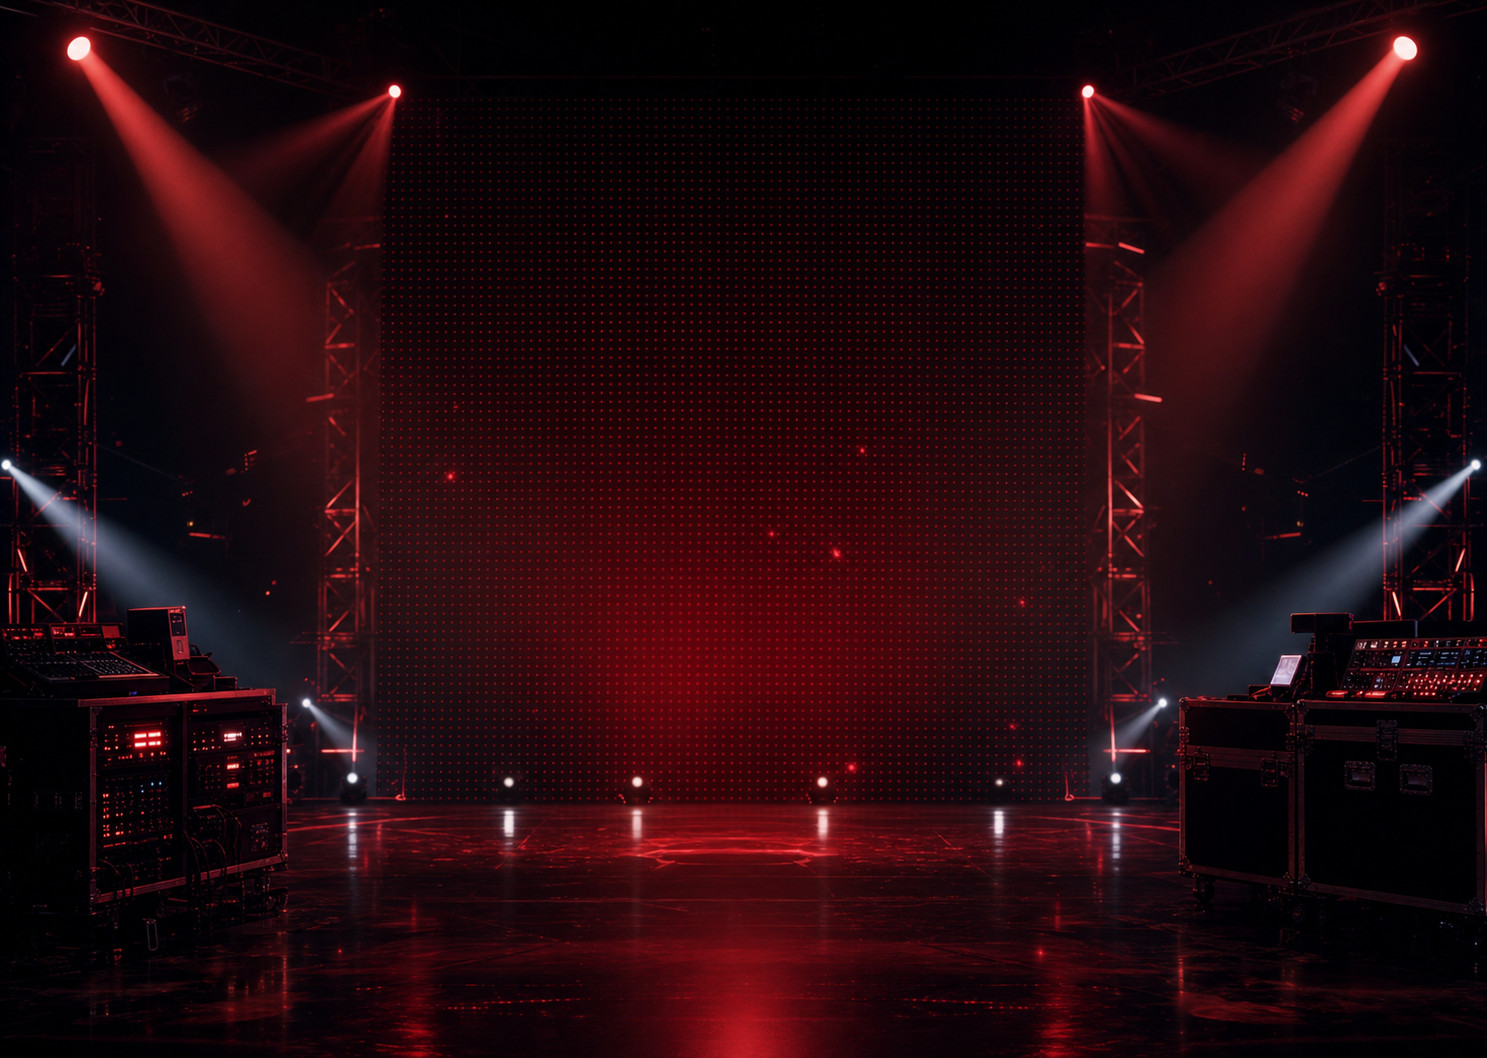
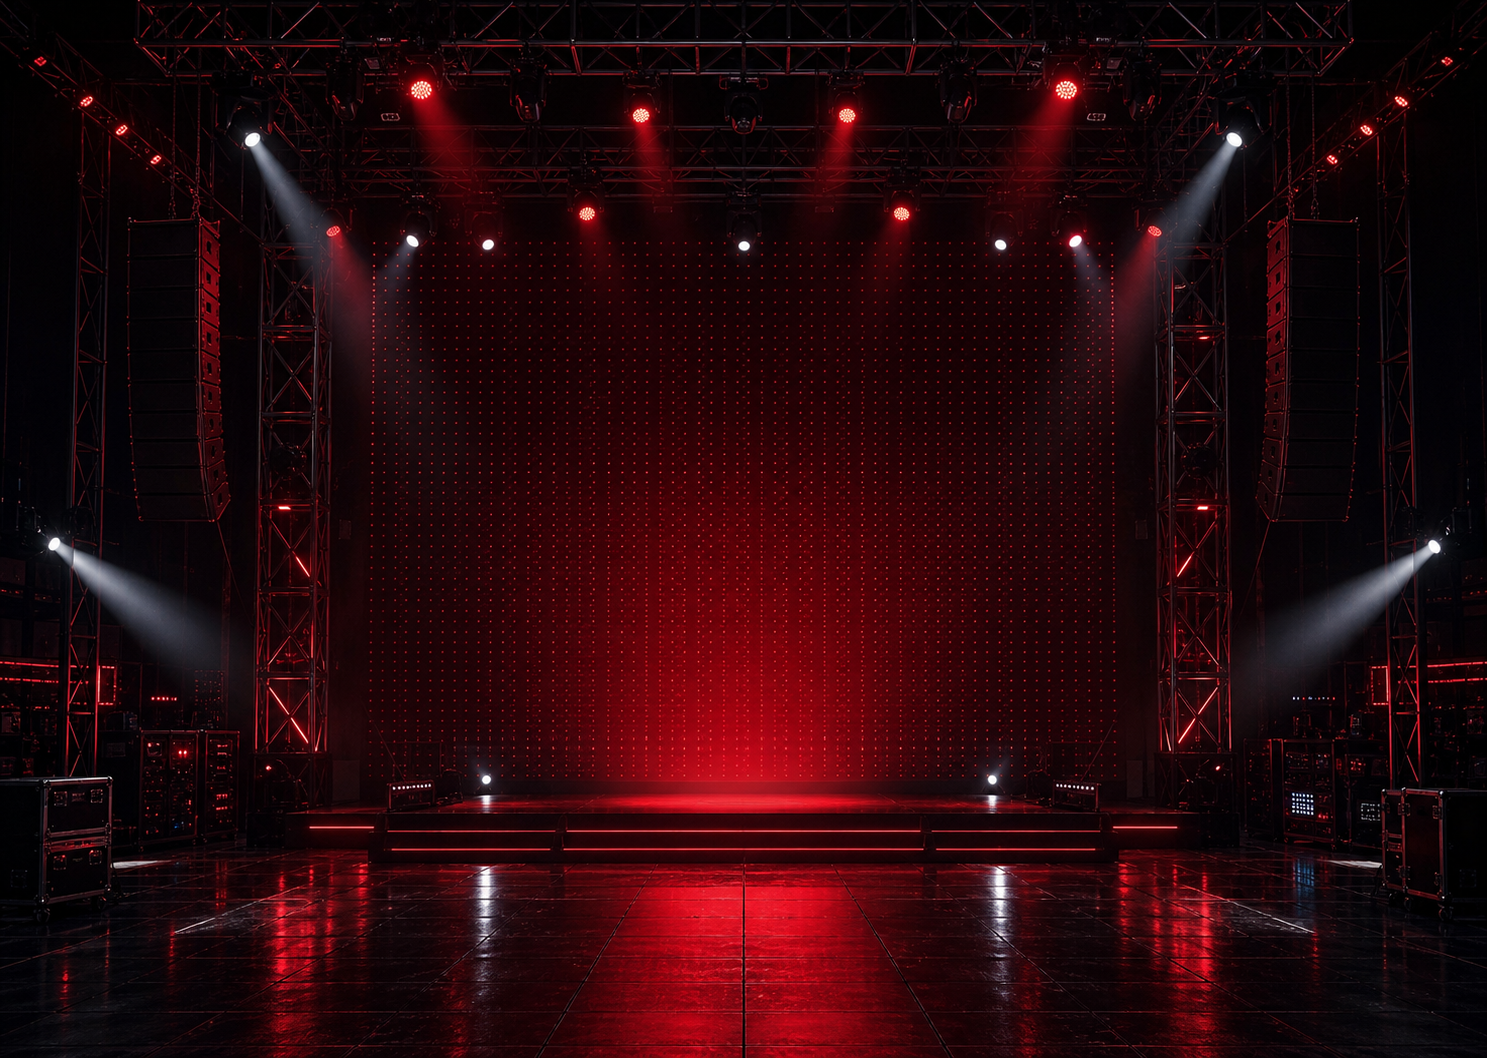
Refine tilted stage card design

diff --git a/styles.css b/styles.css
@@ -1159,7 +1159,8 @@ body {
 .brand-mark {
   width: 50px;
   height: 50px;
-  font-size: 32px;
+  font-size: 26px;
+  letter-spacing: -0.08em;
 }
 
 .nav-links {
@@ -1190,18 +1191,18 @@ body {
 .portrait-stack {
   height: 560px;
   margin-top: 0;
-  perspective: 900px;
 }
 
 .portrait-stack::before {
   content: "";
   position: absolute;
-  inset: 18px 22px 70px 2px;
+  inset: 18px 10px 58px 8px;
   border: 1px solid rgba(255, 58, 68, 0.78);
   border-radius: 18px;
   background: linear-gradient(145deg, rgba(255, 30, 44, 0.14), transparent 42%, rgba(255, 30, 44, 0.1));
   box-shadow: 0 0 32px rgba(240, 42, 52, 0.34), inset 0 0 42px rgba(0, 0, 0, 0.5);
-  transform: rotate(-2.2deg);
+  transform: rotate(-3.2deg);
+  transform-origin: left center;
 }
 
 .portrait-stack::after {
@@ -1211,14 +1212,15 @@ body {
 
 .portrait-main {
   position: absolute;
-  top: 30px;
-  left: 12px;
-  width: 318px;
-  height: 420px;
+  top: 34px;
+  left: 18px;
+  width: 330px;
+  height: 438px;
   border: 2px solid rgba(255, 68, 78, 0.9);
   border-radius: 16px;
   box-shadow: 0 28px 55px rgba(0, 0, 0, 0.55), 0 0 30px rgba(240, 42, 52, 0.36);
-  transform: rotate(-2.2deg);
+  transform: rotate(-3.2deg);
+  transform-origin: left center;
 }
 
 .portrait-small {
@@ -1228,21 +1230,35 @@ body {
 }
 
 .portrait-small.top {
-  top: 76px;
-  right: 4px;
-  width: 124px;
-  height: 164px;
+  top: 88px;
+  right: -2px;
+  width: 118px;
+  height: 156px;
+  transform: rotate(-3.2deg);
 }
 
 .portrait-small.bottom {
-  left: 16px;
-  bottom: 36px;
-  width: 136px;
-  height: 170px;
+  left: 18px;
+  bottom: 60px;
+  width: 126px;
+  height: 158px;
+  transform: rotate(-3.2deg);
+}
+
+.portrait-stack:hover .portrait-main {
+  transform: rotate(-3.2deg) translateY(-4px) scale(1.025);
+}
+
+.portrait-stack:hover .portrait-small.top {
+  transform: rotate(-3.2deg) translate(-3px, 3px) scale(1.02);
+}
+
+.portrait-stack:hover .portrait-small.bottom {
+  transform: rotate(-3.2deg) translate(4px, -3px) scale(1.02);
 }
 
 .profile-copy {
-  margin-top: -86px;
+  margin-top: -82px;
   padding: 0 8px 0 10px;
 }
 
@@ -1512,12 +1528,12 @@ h1 span {
   }
 
   .portrait-main {
-    width: calc(100% - 34px);
+    width: calc(100% - 42px);
     height: 360px;
   }
 
   .profile-copy {
-    margin-top: -70px;
+    margin-top: -54px;
   }
 
   h1 {

diff --git a/index.html b/index.html
@@ -5,13 +5,13 @@
     <meta name="viewport" content="width=device-width, initial-scale=1.0" />
     <title>&#37073;&#26607;&#28828;&#36716;&#30424;</title>
     <link rel="icon" href="data:," />
-    <link rel="stylesheet" href="styles.css?v=20260630-stage" />
+    <link rel="stylesheet" href="styles.css?v=20260630-stage2" />
   </head>
   <body>
     <main class="app-shell">
       <header class="topbar">
         <a class="brand" href="#" aria-label="&#37073;&#26607;&#28828;&#36716;&#30424;&#39318;&#39029;">
-          <span class="brand-mark">K</span>
+          <span class="brand-mark">KK</span>
           <span>&#37073;&#26607;&#28828;&#36716;&#30424;</span>
         </a>
         <nav class="nav-links" aria-label="&#20027;&#23548;&#33322;">

diff --git a/design-qa.md b/design-qa.md
@@ -3,12 +3,12 @@
 Reference: Midnight concert control room direction selected by the user.
 
 Checked:
-- Desktop first screen matches the selected dark concert reference more closely: stage background image, red LED accents, layered left photo card, large wheel, and dark editor panel.
+- Desktop first screen matches the selected dark concert reference more closely: stage background image with truss/LED/stage lighting, red LED accents, tilted layered left photo card, large wheel, and dark editor panel.
 - Mobile first screen prioritizes the wheel and keeps the editor/photo content below.
 - Result dialog remains readable on the dark blurred backdrop.
 - Existing wheel interactions, editable probabilities, save, shuffle, and reset remain functional.
 
 Known simplification:
-- The generated background is an atmospheric stage asset; foreground UI and photo layering remain CSS/HTML for responsiveness.
+- The generated background is a stage asset; foreground UI and photo layering remain CSS/HTML for responsiveness.
 
 Final result: passed